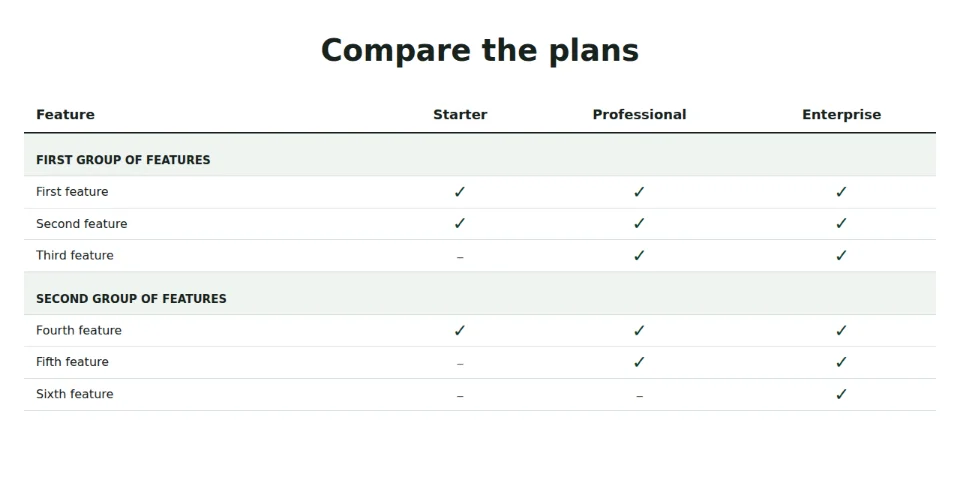
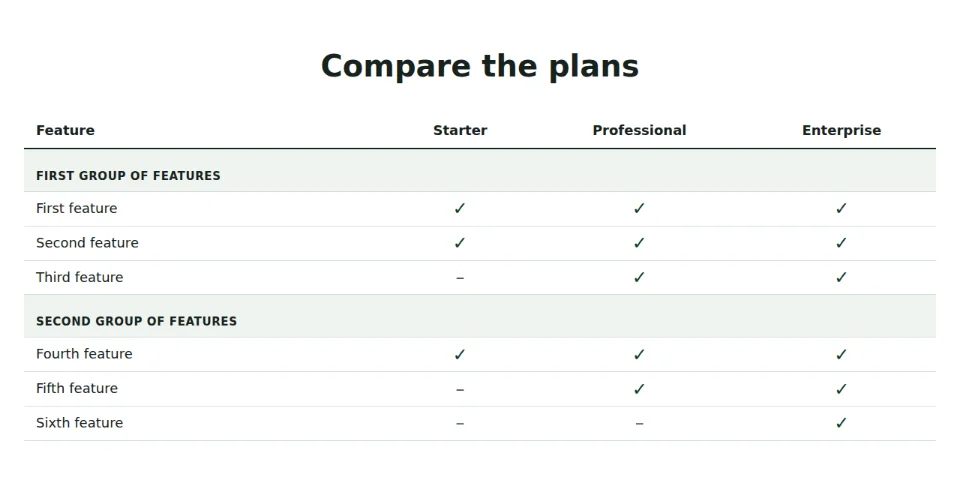
Pattern shots: no fullPage capture, every shot taken twice and checked, retry; re-shoot batch 2 (evive #482)

diff --git a/CHANGELOG.md b/CHANGELOG.md
@@ -4,7 +4,7 @@ All notable changes. Semantic versioning: a slug change in the token contract is
 
 ## Unreleased
 - Docs: screenshots for ten newer patterns in `docs/patterns.md` (steps, problem-solution, bento, product-screenshot, pricing-plans, pricing-comparison, pricing-addon, cta-media, case-cards, case-study): default palette at 1280, dark-primary test palette at 1280, phone at 390, same format as the earlier shots. No theme code changes (evive #482).
-- Tools: `tools/pattern-shots/` makes these screenshots with one command (`node tools/pattern-shots/shoot.mjs --card <card> <pattern...>` on an evive-base test site: one page per pattern, Playwright at real viewport widths, lazy images loaded, WebP encoded in the browser). The dark-primary test palette is written down in `tools/pattern-shots/palettes.json`; how it works in `tools/pattern-shots/README.md` (evive #482).
+- Tools: `tools/pattern-shots/` makes these screenshots with one command (`node tools/pattern-shots/shoot.mjs --card <card> <pattern...>` on an evive-base test site: one page per pattern, Playwright at real viewport widths, lazy images loaded, every shot taken twice and checked for a stable layout, WebP encoded in the browser). The dark-primary test palette is written down in `tools/pattern-shots/palettes.json`; how it works in `tools/pattern-shots/README.md` (evive #482).
 
 ## 0.9.0 — 2026-11-19
 - New block **Media with overlapping card** (`evive/media-overlap`, with inner `evive/media-overlap-card`, in `blocks/media-overlap/` and `blocks/media-overlap-card/`): an image with a card that overlaps one of its corners; the card holds any blocks (an image or SVG, text, a button). Sidebar: card position (bottom left / bottom right / top left / top right), how far it sticks out sideways and vertically (spacing steps 0–7), card width (20–100 % of the image), card background (theme palette only, or none), corners (radius presets), padding (spacing steps) and shadow (shadow presets). The block reserves the space the card sticks out into, so text next to or below it is never covered; a card taller than the image makes the block taller instead of being cut off. Below 782px the card stacks under the image at full width, unless "Keep the overlap on phones" is on. Both blocks save only their inner blocks (settings in the block comment, wrapper rendered in PHP with the same classes and CSS variables as the editor), so the editor shows the front-end layout and later markup changes don't invalidate saved content. Its CSS loads only where the block is used. Replaces hand-written `position:absolute` groups with inline styles and a hard-coded white (evive #516).

diff --git a/tools/pattern-shots/README.md b/tools/pattern-shots/README.md
@@ -31,12 +31,18 @@ What it does per shot:
 - the palette is set by overriding the preset custom properties `--wp--preset--color--<slug>` on `:root` (evive-base
   never redefines them lower down, so every block follows); the `default` palette overrides nothing;
 - the cookie banner (`#evive-cb`) is hidden;
-- it scrolls the whole page and waits for every image and web font (lazy images), then takes a full-page shot clipped to
-  the pattern's box;
+- it scrolls the whole page and waits for every image and web font (lazy images), and notes the layout at the real
+  viewport (the pattern's box and the font sizes of its first text elements);
+- it then makes the viewport as tall as the page (same width, so `vw`-based fluid sizes stay the same) and takes a plain
+  shot clipped to the pattern's box. No `fullPage` shot: that lets Chromium resize the page during capture, and now and
+  then the fluid font sizes came out too small in the shot (a smaller text, or an empty band at the bottom);
+- every shot is taken twice; both must be identical and the layout must match the one at the real viewport before
+  and after. Otherwise it retries (up to 3 times, printed as `retry ...`) and then reports a `PROBLEM` without writing
+  the file;
 - the PNG is scaled and encoded to WebP (quality 0.85) inside the browser, so no image tools are needed.
 
 Console errors and failing requests are printed as `PROBLEM ...` and give exit code 2 (the files are still written;
-look at them).
+look at them). A shot that stays unstable after 3 tries also gives `PROBLEM` and exit code 2, and its file is not written.
 
 Options: `--only default,dark,mobile` (a subset), `--out <dir>`, `--quality 0.85`, and `--site <url> --no-pages` for any
 other WordPress site with evive-base active where the `/pattern-<name>/` pages already exist (for example a local
